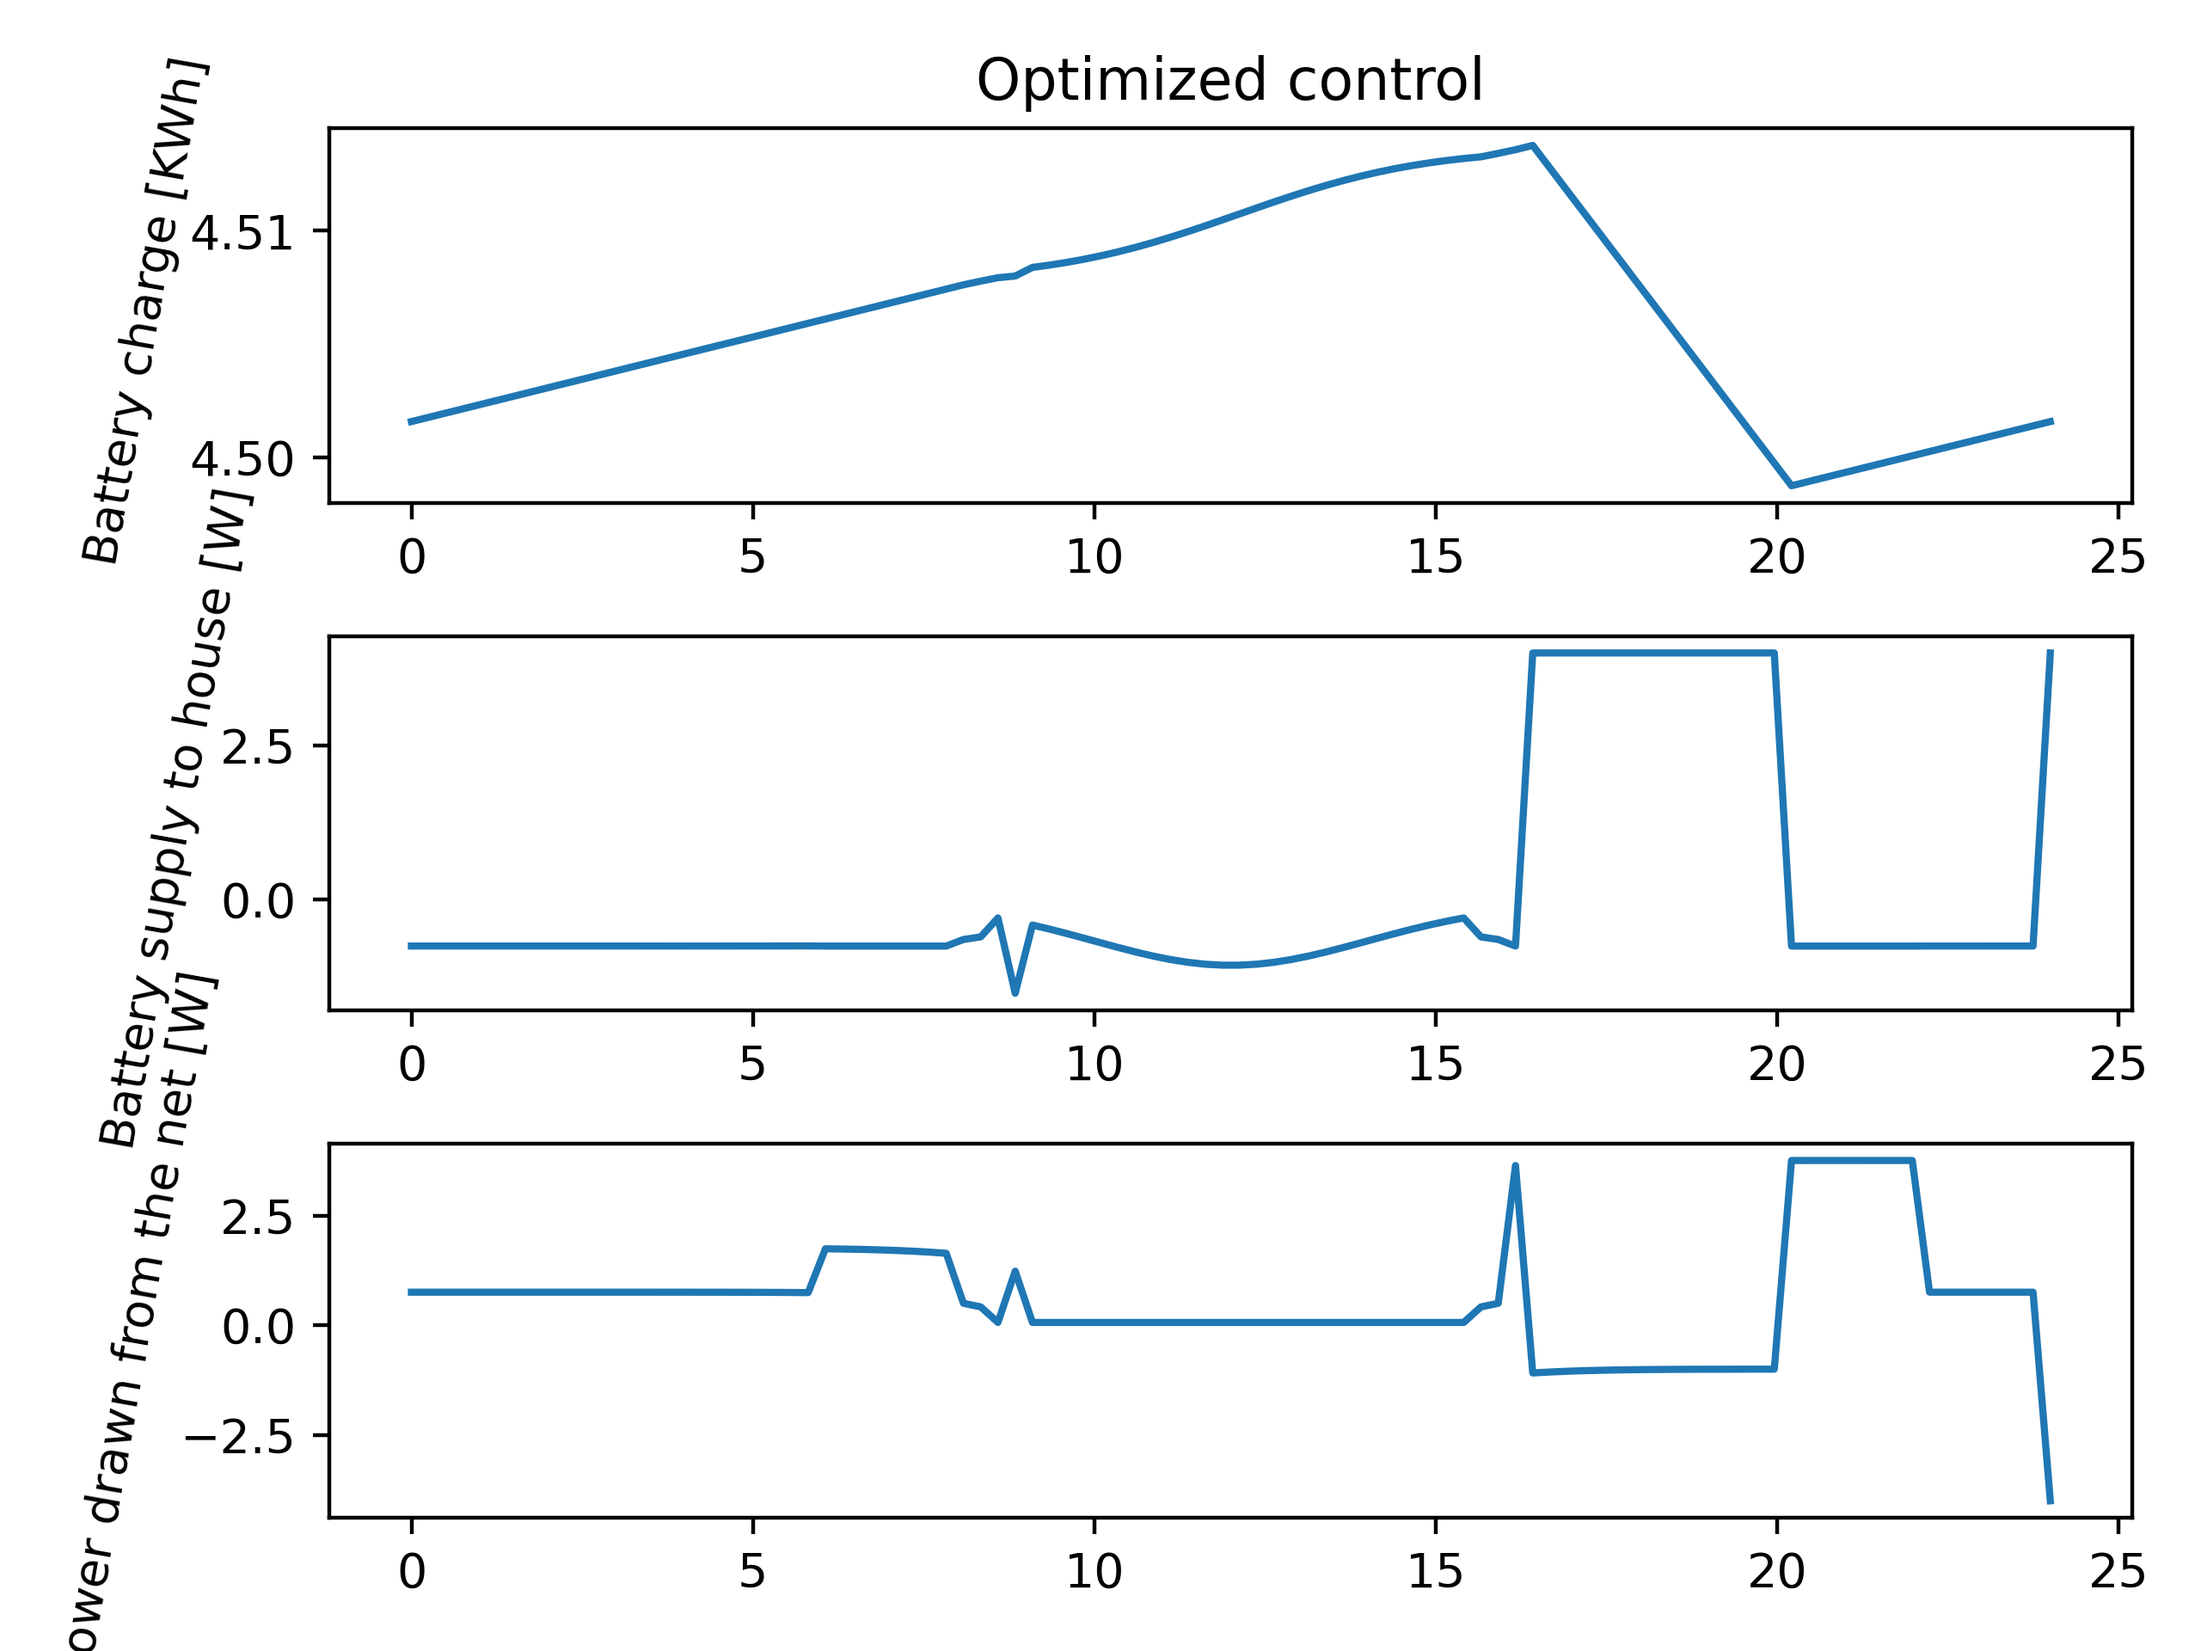
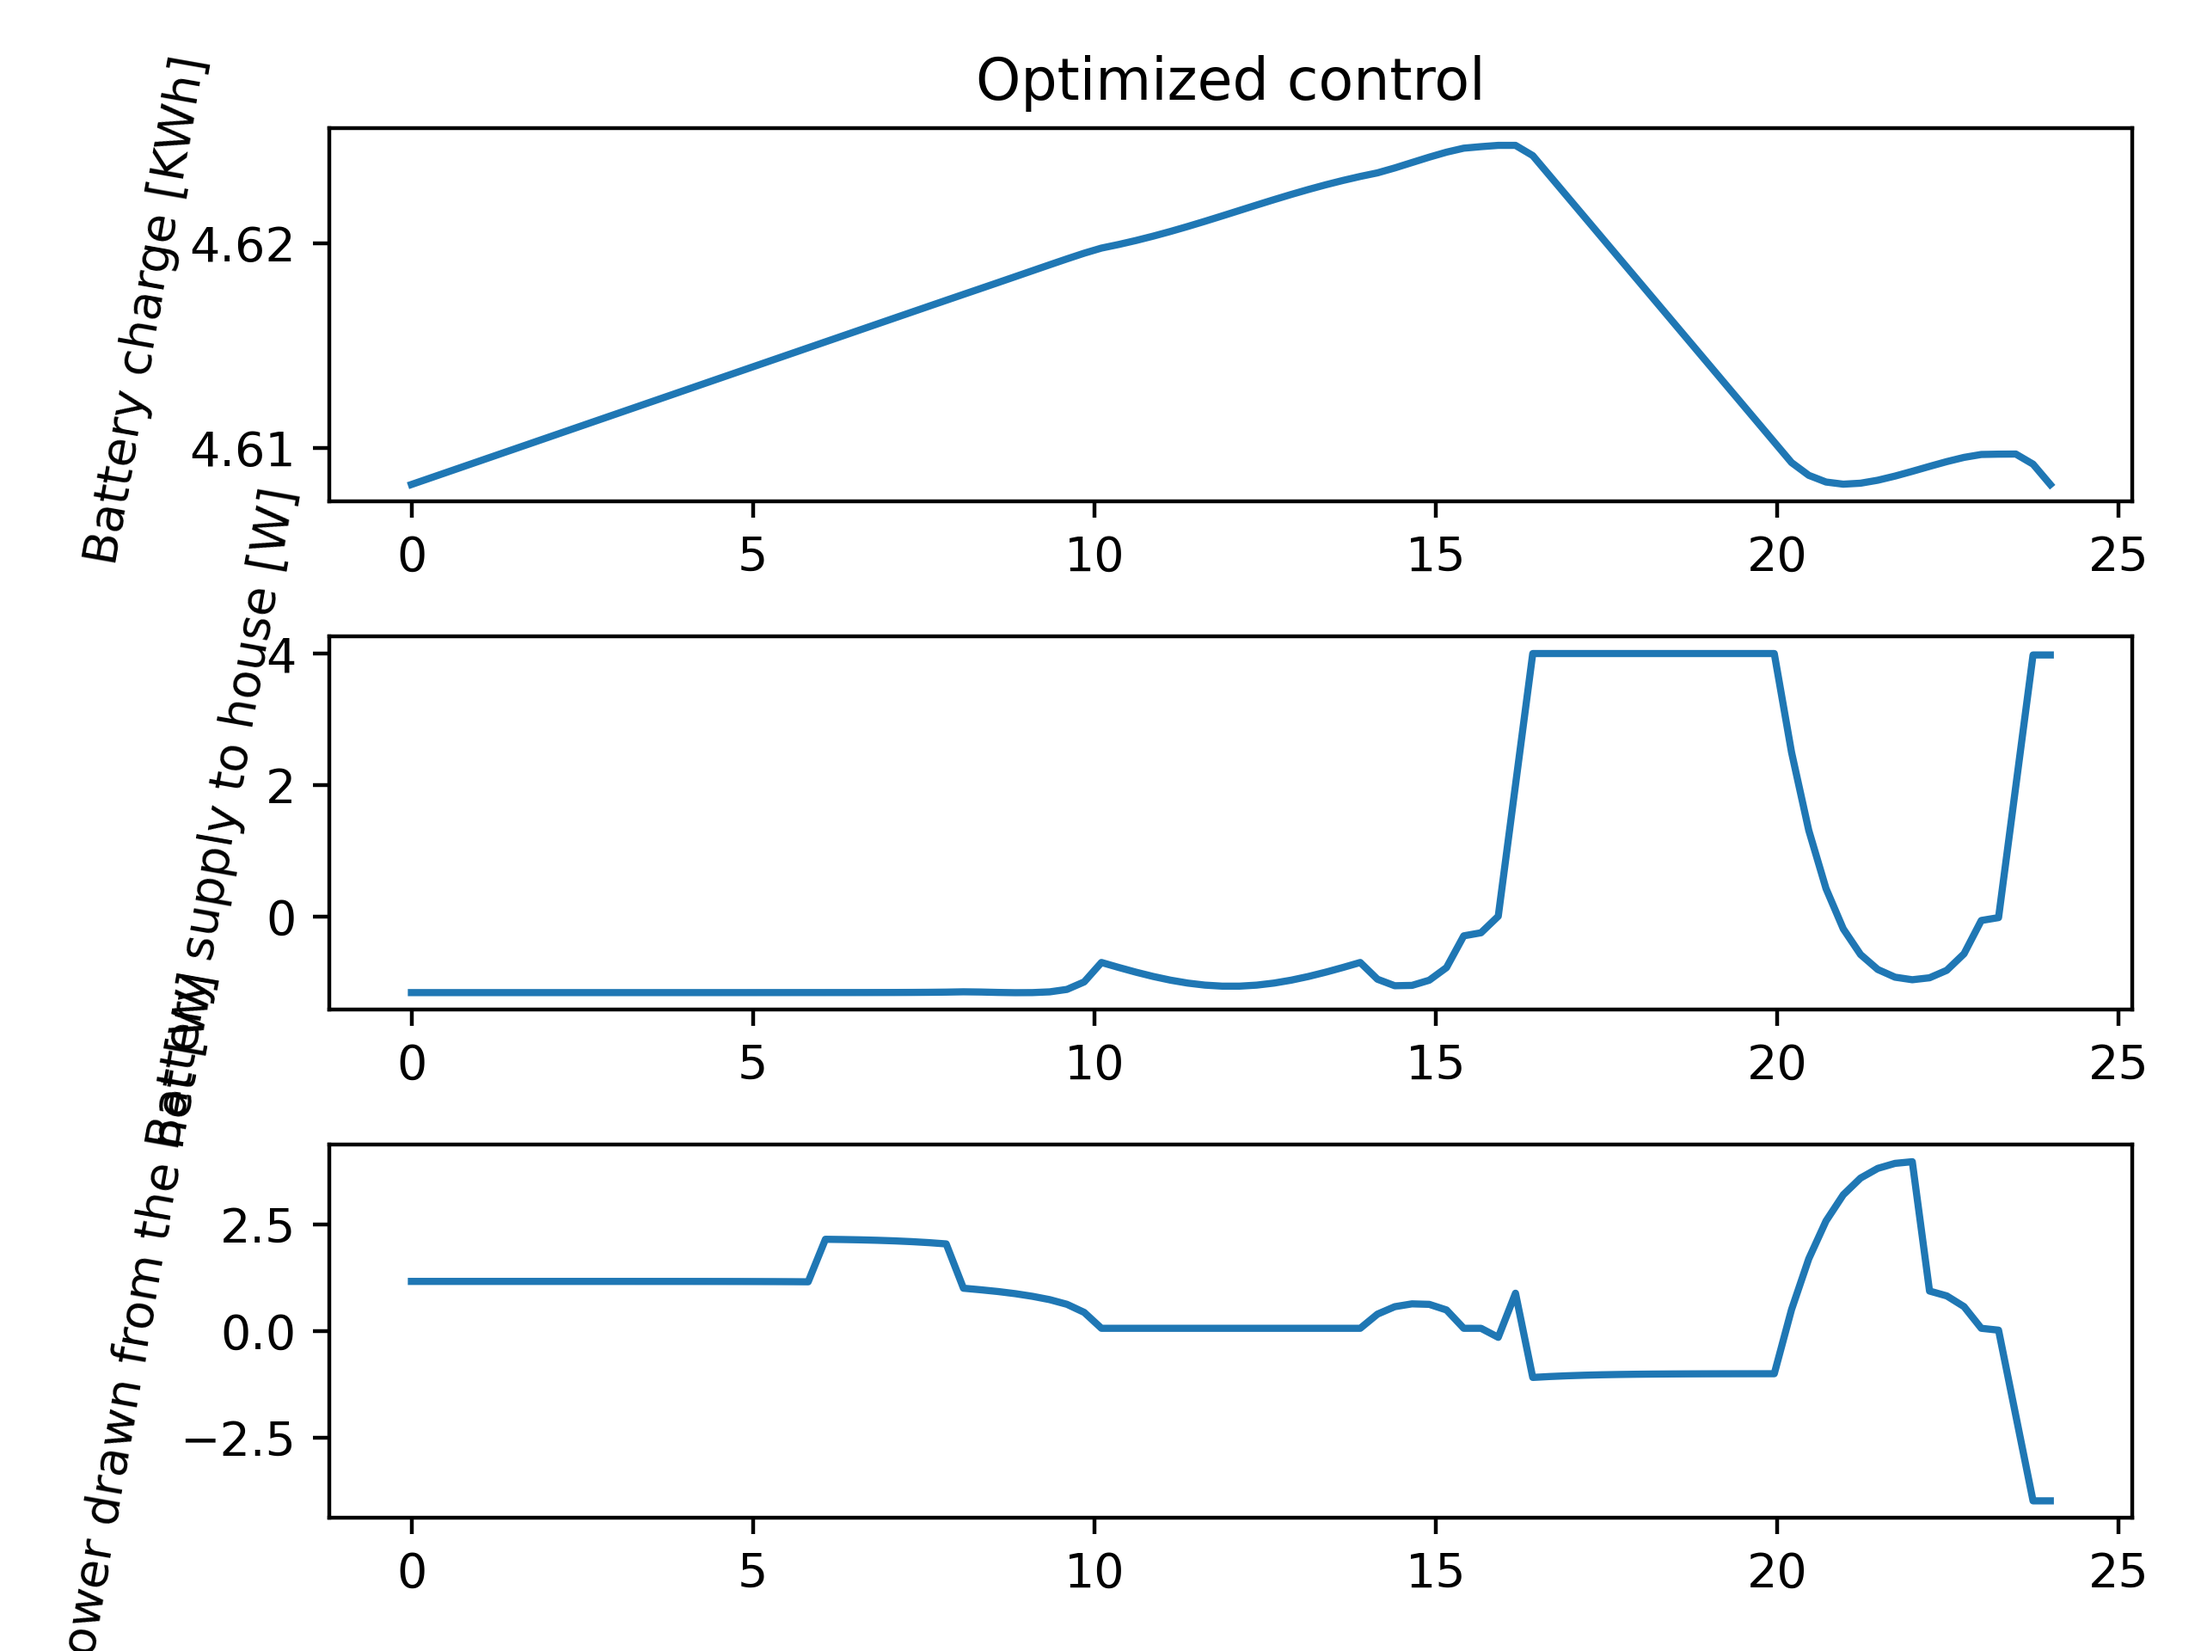
Added rate limiting

diff --git a/solar_panel_battery_opt.py b/solar_panel_battery_opt.py
@@ -10,12 +10,13 @@ class BatterySetup:
     max_battery_charge:float 
     max_battery_disscharge:float 
     max_battery_capacity:float 
+    rate_limit:float
 
 
 
 def main():
 
-    battery = BatterySetup(4,4,10) #10-30 KWh
+    battery = BatterySetup(4,4,10,2) #10-30 KWh
     N = int(24*4)
     dt = 15*60
     t = np.linspace(0,24,N)
@@ -142,7 +143,7 @@ def opt_battery_strat(elec_cost,house_consum,avaliable_solar,dt:float,battery:Ba
         # Battery must end with the same charge as it started with
         if i == N-1:
             opti.subject_to(qb_i == QB[0])
-        
+      
         QB.append(qb_i)
 
         # Charge controller, how much wattage from/to the battery
@@ -152,10 +153,17 @@ def opt_battery_strat(elec_cost,house_consum,avaliable_solar,dt:float,battery:Ba
         opti.subject_to(wb_i<= battery.max_battery_disscharge)
         opti.subject_to(wb_i >= -1*battery.max_battery_charge)
 
+        # rate limit
+        if i > 0:
+            opti.subject_to(wb_i <= WB[i-1] + battery.rate_limit)
+            opti.subject_to(wb_i >= WB[i-1] - battery.rate_limit)
+
         WB.append(wb_i)
 
-        # How much current is drawn from the net & cells?
+        if i == N-1:
+            opti.subject_to(wb_i == WB[-2])
 
+        # How much current is drawn from the net & cells?
         W_house = house_consum[i]
         W_cells = avaliable_solar[i]
 
@@ -163,8 +171,6 @@ def opt_battery_strat(elec_cost,house_consum,avaliable_solar,dt:float,battery:Ba
         WE.append(we_i)
 
         # Add upp elec cost
-
-
         J_consume = sigmoid(we_i)*dt_watt_h*elec_cost[i]*we_i
 
         J_export = sigmoid(-1*we_i)*dt_watt_h*elec_cost[i]*export_price_precentage*we_i
@@ -189,26 +195,6 @@ def opt_battery_strat(elec_cost,house_consum,avaliable_solar,dt:float,battery:Ba
 
 
     return WB_RES,WE_RES,QB_RES
-
-
-
-
-
-
-
-
-
-
-
-
-
-
-
-
-
-
-
-
 
 
 
